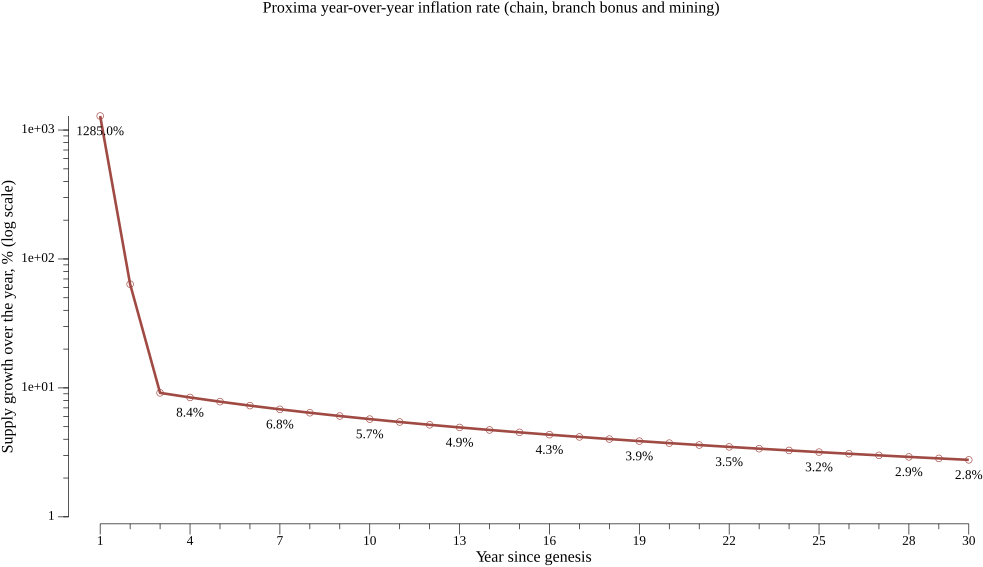
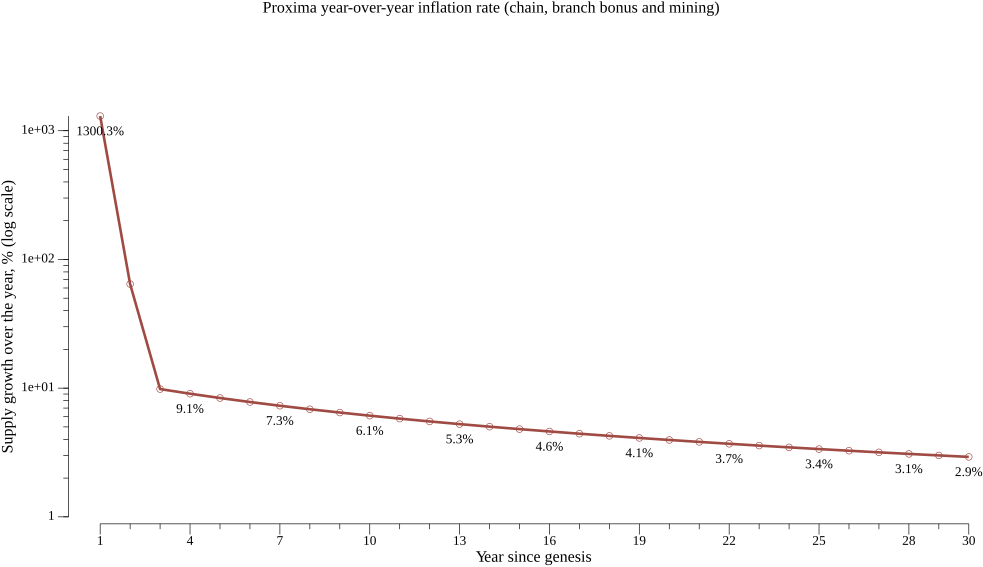
overview: regenerate the supply charts with the corrected branch bonus
The published charts came from an emulation that drew the branch bonus as
a single uniform draw, half the base. The bonus is a tie-break between
competing branches, so the winning draw is what gets recorded and it sits
just under the base — the old model understated the branch band roughly
twofold.

Regenerated: the branch band is 858M PROX at 30 years rather than ~600M,
and total supply 4.62B rather than ~4.2B. Year 3 moves from 8.4% to 9.8%,
so the page's "roughly 8% in year 3" becomes "just under 10%". The other
two figures quoted, the ~1,300% launch year and under 3% by year 30, still
hold.

Changed region(s): [[0.1526, 0.6596, 1.0, 0.8395], [0.0305, 0.2099, 0.1221, 0.2399], [0.0305, 0.4497, 0.061, 0.4797]]

diff --git a/overview/2-tokens-and-supply.md b/overview/2-tokens-and-supply.md
@@ -165,8 +165,8 @@ bootstrap band keeps growing in absolute terms while shrinking as a share.
 
 Year-over-year the picture is a cliff and then a gentle slope, which is why the chart uses
 a logarithmic scale. The launch year is around 1,300% as mining floods in. Once mining
-ends the rate drops to single digits — roughly 8% in year 3 — and declines steadily from
-there, reaching under 3% by year 30.
+ends the rate drops to single digits — just under 10% in year 3 — and declines steadily
+from there, reaching under 3% by year 30.
 
 Beyond the chart, the same arithmetic keeps going: no schedule ends it, and the rate keeps
 falling. The ledger runs out of slot numbers to count time with roughly fourteen centuries
